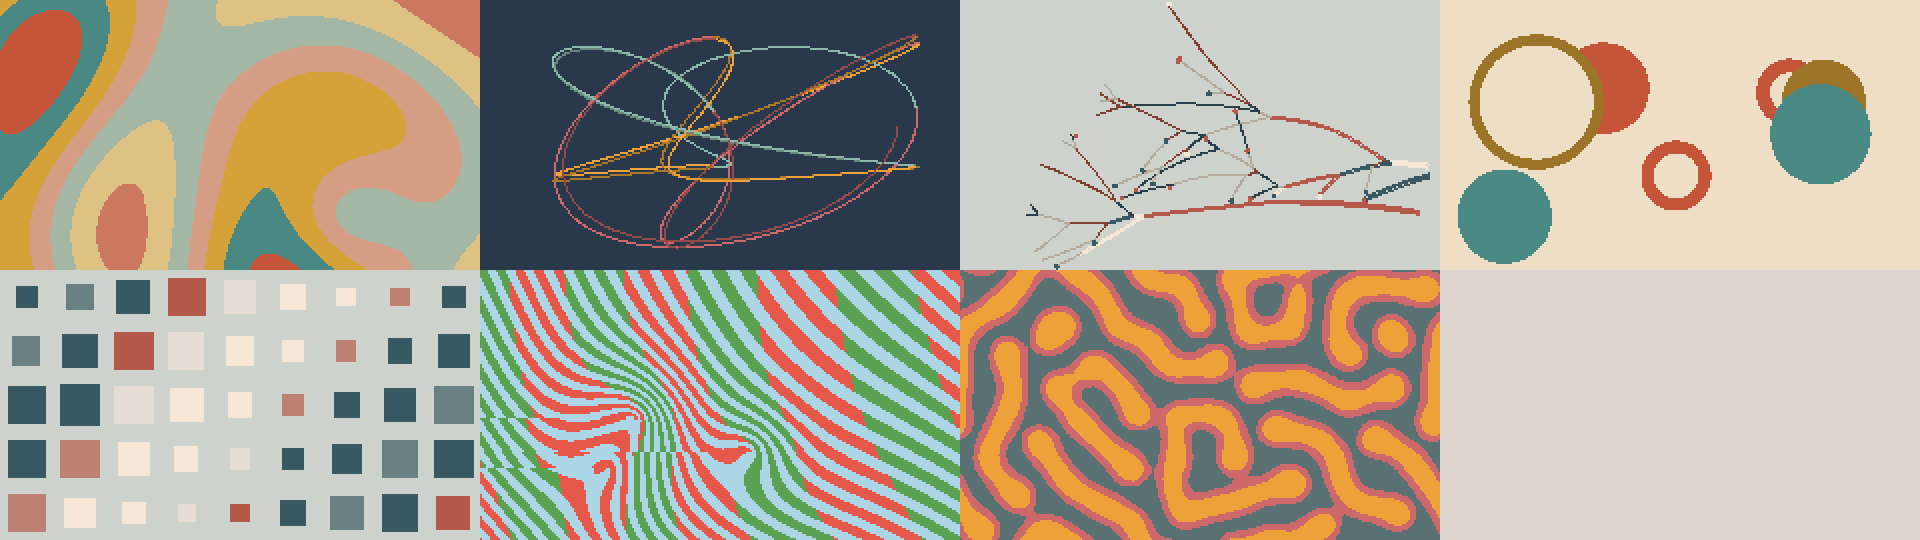
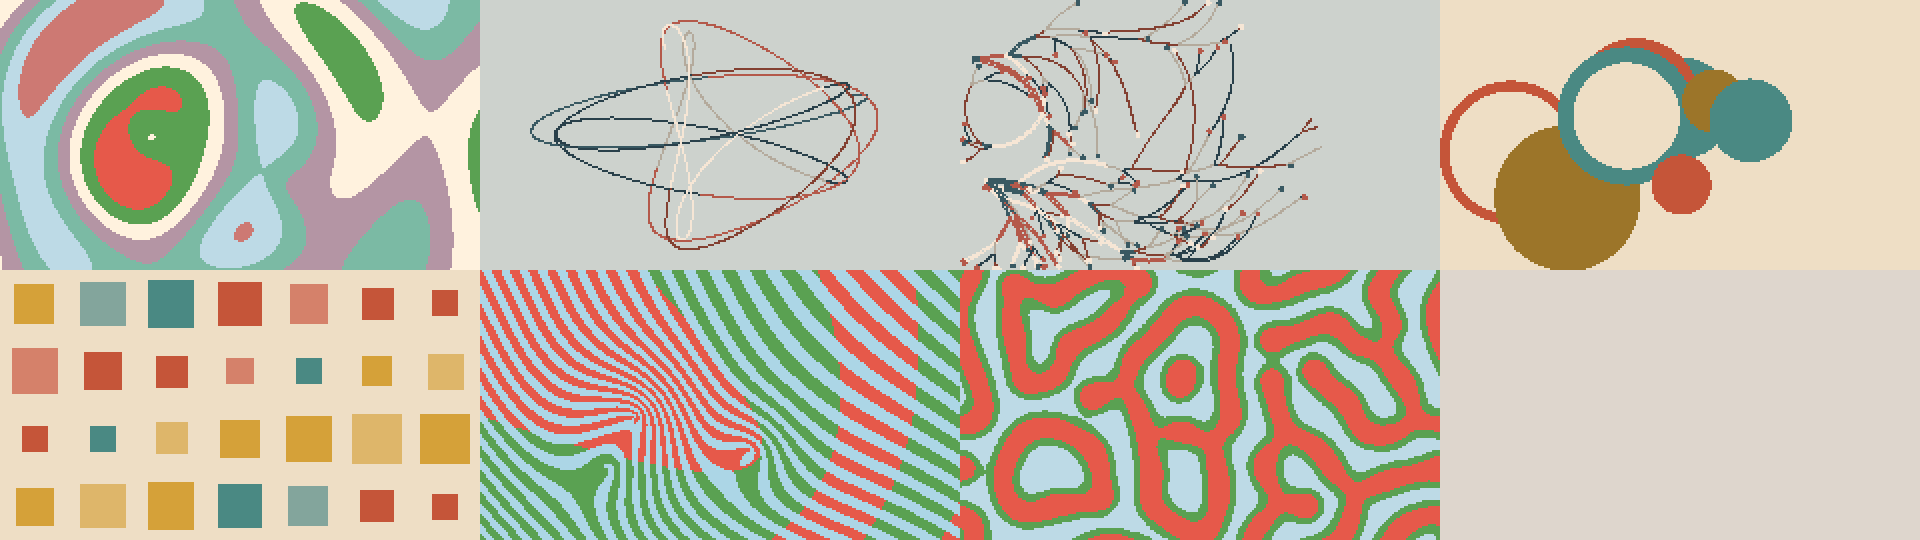
Keep the reef changing, take the seam out of the ridges
The reef grew into the space, reached its steady state and then did nothing.
Its feed and kill rates now wander slowly around the point they started
from, which keeps the same labyrinth splitting and rejoining instead of
finishing, and louder passages feed it while quiet ones starve it back.
Wandering unwatched, though, the rates leave the viable band and the whole
field dies, and a dead field stays dead however many colonies are dropped
into it, so coverage is sampled every frame and steers a slow correction
back. Two seeds that used to go blank for a minute at a time now hold
between a third and three quarters of the frame for as long as they run.

The seam across the ridges was the branch cut of atan2, scaled by the
distance weight into something other than a whole turn. Charges are whole
turns now and the angular term carries no weight, so the jump is invisible
to a sine; only the concentric term is windowed. The colour regions are bent
around the first core by its distance field, which is smooth everywhere, for
the same reason.

diff --git a/src/Light.h b/src/Light.h
@@ -77,6 +77,7 @@ class Painting {
   static constexpr unsigned reefW = 120, reefH = 68;
   std::array<int16_t, reefW * reefH> reefU{}, reefV{};
   int32_t feed = 150, kill = 266;
+  float feedBase = 150, killBase = 266, feedRate = 0, killRate = 0, feedBias = 0;
   float dropAt = 0;
   // Tiles: the last few seconds of the music, so a swell can travel across
   // the grid instead of every tile answering the same instant.
@@ -518,7 +519,11 @@ class Painting {
       Whorl& w = whorls[i];
       w.x = range(45.0f, 195.0f);
       w.y = range(28.0f, 107.0f);
-      w.charge = i == 0 ? range(0.9f, 1.6f) : (unit() < 0.55f ? range(-1.3f, -0.6f) : range(0.6f, 1.3f));
+      // Whole turns only. atan2 jumps by exactly one turn across its branch
+      // cut, and a whole number of turns is invisible to a sine; any other
+      // charge leaves a seam running out of the core to the edge of the
+      // frame, which is the line that kept showing up across the ridges.
+      w.charge = float(1 + int(unit() * 1.7f)) * (i == 0 ? 1.0f : (unit() < 0.55f ? -1.0f : 1.0f));
       // Near a core the ridges are concentric, which is what makes a loop or
       // a whorl; the charge on top of that is what opens it into a spiral or
       // forks it into a delta. Away from the core the linear flow takes over.
@@ -558,18 +563,25 @@ class Painting {
       for (unsigned x = 0; x < width; ++x) {
         float fx = float(x) + 0.5f;
         float phi = fx * dirX + fy * dirY + drift;
+        float warp = 0;
         for (unsigned i = 0; i < whorlCount; ++i) {
           float dx = fx - cx[i], dy = fy - cy[i];
           float d2 = dx * dx + dy * dy;
+          // The angular term carries no weight: weighting it would scale the
+          // branch-cut jump to something other than a whole turn and bring
+          // the seam straight back. Only the concentric term is windowed.
           float weight = reach2[i] / (reach2[i] + d2);
-          phi += weight * (radial[i] * std::sqrt(d2) + charge[i] * fatan2(dy, dx));
+          float d = std::sqrt(d2);
+          if (i == 0) warp = d;
+          phi += weight * radial[i] * d + charge[i] * fatan2(dy, dx);
         }
         float band_ = fsin(phi);
         if (band_ < -0.12f + breath * 0.22f) { frame[y * width + x] = valley; continue; }
-        // The colour boundary is warped by the ridge phase itself, so it
-        // wanders along the ridges instead of cutting a straight line across
-        // them.
-        float region = fsin(fx * regionA + fy * regionB + phi * 0.11f + t * 0.01f);
+        // Bent around the first core by its distance field, which is smooth
+        // everywhere. Warping this with the ridge phase instead put the
+        // branch cut through the colour regions, and warping it with the
+        // ridge value broke each ridge into dashes.
+        float region = fsin(fx * regionA + fy * regionB + warp * 0.0075f + t * 0.01f);
         frame[y * width + x] = region > 0 ? ridge0 : ridge1;
       }
     }
@@ -590,8 +602,17 @@ class Painting {
       {150, 242},  // 0.037 / 0.059, labyrinth
     };
     unsigned choice = random() % 5;
-    feed = rates[choice][0];
-    kill = rates[choice][1];
+    feedBase = float(rates[choice][0]);
+    killBase = float(rates[choice][1]);
+    // The rates wander slowly around the chosen point. Held still, a
+    // labyrinth grows into the space, reaches its steady state and then does
+    // nothing at all; moved a little, the same pattern keeps splitting and
+    // rejoining and never finishes.
+    feedRate = range(0.006f, 0.017f);
+    killRate = range(0.004f, 0.013f);
+    feedBias = 0;
+    feed = int32_t(feedBase);
+    kill = int32_t(killBase);
     for (unsigned i = 0; i < reefU.size(); ++i) { reefU[i] = 4096; reefV[i] = 0; }
     for (unsigned blob = 0; blob < 14; ++blob) {
       unsigned bx = 6 + random() % (reefW - 12), by = 6 + random() % (reefH - 12);
@@ -635,6 +656,20 @@ class Painting {
     // Sixteen reaction steps a frame. The chemistry runs far slower than a
     // frame rate, and at a handful of steps the pattern takes minutes to
     // become anything.
+    // How much of the field is alive, sampled every fourth cell. The
+    // wandering rates are what keep the pattern from settling, but left
+    // unwatched they wander out of the viable band and the whole reef dies,
+    // and a dead field stays dead however many colonies are dropped into it.
+    unsigned alive = 0, sampled = 0;
+    for (unsigned i = 0; i < reefV.size(); i += 4) { if (reefV[i] > 320) ++alive; ++sampled; }
+    float coverage = float(alive) / float(sampled);
+    // A slow hand on the tiller: feeding more and killing less both favour
+    // growth, so one correction steers both.
+    feedBias += (0.30f - coverage) * 26.0f * dt;
+    feedBias = std::max(-16.0f, std::min(22.0f, feedBias));
+    // Louder passages feed the reef, quiet ones starve it back.
+    feed = int32_t(feedBase + fsin(phase * feedRate) * 15.0f + breath * 10.0f + feedBias);
+    kill = int32_t(killBase + fsin(phase * killRate + 0.37f) * 8.0f - feedBias * 0.32f);
     for (unsigned i = 0; i < 16; ++i) stepReef();
     float high = 900 - breath * 260.0f, low = 320 - breath * 120.0f;
     uint16_t shell = color(ink[0]), flesh = color(ink[1]), sand = wash(ink[2], 0.55f);
